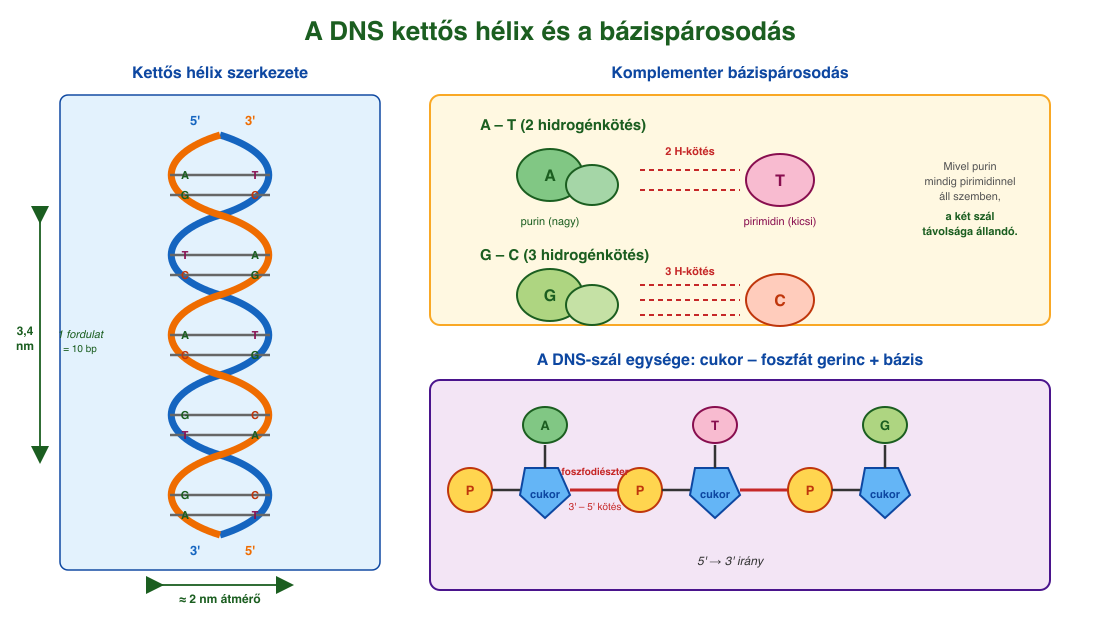
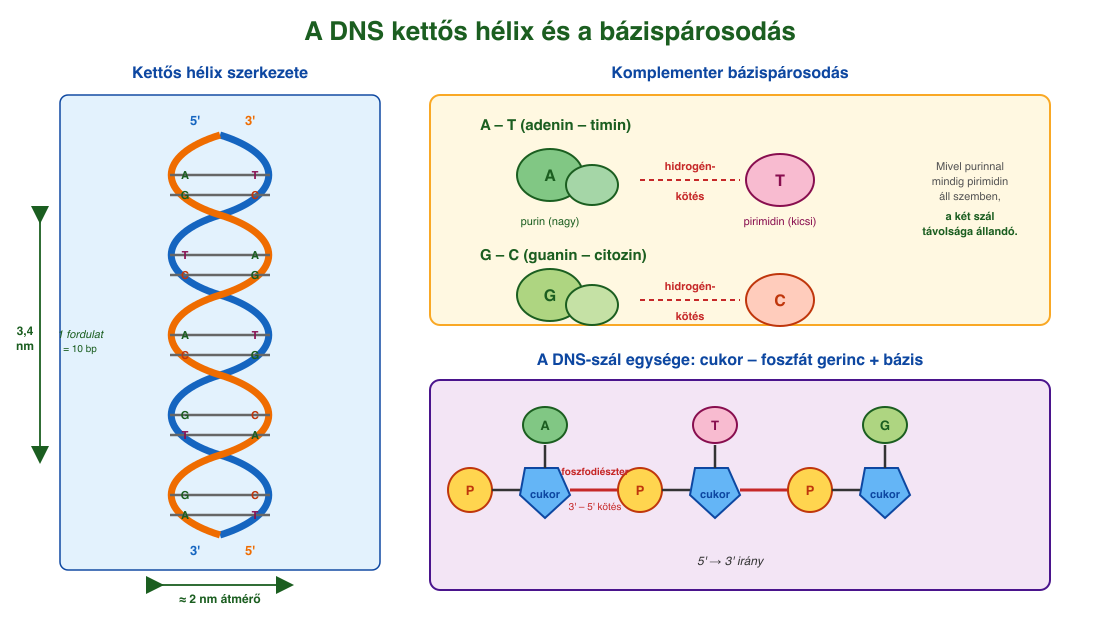
Deployed dc9786d with MkDocs version: 1.6.1

diff --git a/10-enzimek/index.html b/10-enzimek/index.html
@@ -807,25 +807,20 @@
 <h2 id="aktiv-centrum-es-szubsztrat">Aktív centrum és szubsztrát<a class="headerlink" href="#aktiv-centrum-es-szubsztrat" title="Permanent link">&para;</a></h2>
 <p>Az enzim felületén egy zsebszerű hely található – ez az <strong>aktív centrum</strong> (kötőzseb) –, ahova az átalakuló anyag, a <strong>szubsztrát</strong> bekötődik. Az enzimek <strong>reakcióspecifikusak</strong> és <strong>fajlagosak</strong>: minden enzim csak meghatározott szubsztrátot ismer fel, mivel a kötőzseb felépítése specifikus, szerkezete kiegészítő (komplementer) a szubsztrátéval.</p>
 <ul>
-<li><strong>Kulcs-zár modell</strong> (Fischer): a szubsztrát úgy illeszkedik az aktív centrumba, mint a kulcs a zárba. Merev struktúrát feltételez.</li>
-<li><strong>Indukált illeszkedés modellje</strong> (Koshland): ma elfogadottabb. A szubsztrát bekötődése <strong>finoman módosítja</strong> az enzim szerkezetét, ezzel növeli a katalitikus aktivitást.</li>
+<li><strong>Kulcs-zár modell:</strong> a szubsztrát úgy illeszkedik az aktív centrumba, mint a kulcs a zárba. Merev struktúrát feltételez.</li>
+<li><strong>Indukált illeszkedés:</strong> a szubsztrát bekötése <strong>módosítja az enzim szerkezetét</strong>, és ezzel növeli a katalitikus aktivitását is.</li>
 </ul>
 <p>Az <strong>enzim–szubsztrát-komplex</strong> átalakulása után termékek keletkeznek, az enzim pedig változatlanul visszanyeri eredeti formáját.</p>
 <h2 id="az-enzimaktivitas-es-kornyezeti-tenyezok">Az enzimaktivitás és környezeti tényezők<a class="headerlink" href="#az-enzimaktivitas-es-kornyezeti-tenyezok" title="Permanent link">&para;</a></h2>
 <p>Az <strong>enzimaktivitás</strong> megmutatja, hogy adott idő alatt adott mennyiségű enzim mennyi szubsztrátot képes átalakítani. Az aktivitás függ:</p>
 <ul>
 <li><strong>Hőmérséklet:</strong> kis emelkedés gyorsít, de <strong>41 °C felett</strong> a fehérje térszerkezete annyira megváltozik, hogy az enzim képtelen ellátni feladatát – ezért a magas láz életveszélyes. Ez a <strong>denaturáció</strong>, általában visszafordíthatatlan.</li>
-<li><strong>pH (kémhatás):</strong> minden enzimnek van <strong>optimális pH</strong>-ja (pepszin pH ~2, tripszin pH ~8, amiláz pH ~7). A pH-eltolódás megváltoztatja a fehérje töltésviszonyait, és felszakítja a polipeptidláncot stabilizáló kötéseket.</li>
-<li><strong>Szubsztrátkoncentráció és enzimkoncentráció:</strong> növelésük egy ideig növeli a reakciósebességet, de <strong>telítés</strong> (maximum) után már nem.</li>
+<li><strong>pH (kémhatás):</strong> minden enzimnek van <strong>optimális pH</strong>-ja. A pH-eltolódás megváltoztatja a fehérje töltésviszonyait, és felszakítja a polipeptidláncot stabilizáló kötéseket.</li>
+<li><strong>Ionkoncentráció.</strong></li>
 <li><strong>Nehézfém-ionok</strong> (Pb²⁺, Hg²⁺) és mechanikai hatások szintén denaturálhatják az enzimet.</li>
 </ul>
 <h2 id="enzimgatlas">Enzimgátlás<a class="headerlink" href="#enzimgatlas" title="Permanent link">&para;</a></h2>
-<p>Az enzimaktivitást csökkentő anyagok az <strong>inhibitorok</strong> (enzimgátlók). Két fő típusuk:</p>
-<ul>
-<li><strong>Kompetitív (versengő) inhibitor:</strong> a szubsztráthoz hasonló szerkezetű molekula, amely képes az aktív centrumba bekötődni, és <strong>elfoglalja</strong> azt a szubsztrát elől. A gátlás mértékét a szubsztrát- és az inhibitor-koncentráció viszonya határozza meg – <strong>több szubsztráttal feloldható</strong>.</li>
-<li><strong>Nemkompetitív inhibitor:</strong> az enzim egy <strong>másik helyére</strong> kötődik, ezzel megváltoztatja az aktív centrum térszerkezetét, így az enzim inaktívvá válik. <strong>Több szubsztráttal nem oldható fel</strong>.</li>
-<li><strong>Negatív visszacsatolás:</strong> az anyagcsereút <strong>végterméke</strong> gyakran az első enzimet gátolja – ezzel a sejt önszabályozza saját anyagcsere-folyamatait.</li>
-</ul>
+<p>Az enzimaktivitás mértékét csökkentő anyagokat <strong>inhibitoroknak</strong> (enzimgátlóknak) nevezzük. Az inhibitoroknak többféle típusát ismerjük. Egyik csoportjuk a <strong>versengő (kompetitív) inhibitorok</strong>, melyek a szubsztráthoz hasonló szerkezetük révén képesek bekötődni az enzim aktív centrumába, elfoglalva azt. Amennyiben inhibitor jelen van, az enzim képtelen a szubsztrát megkötésére, inaktívvá válik. Az enzimaktivitás mértékét a szubsztrát-, illetve az inhibitor-koncentráció viszonyai határozzák meg, ezek versengenek az aktív centrumban való megkötődés lehetőségéért. Az enzimek csak átmenetileg vesznek részt a reakcióban, maradandó változást nem szenvednek, újra felhasználhatók.</p>
 <h2 id="egyszeru-es-osszetett-enzimek-kofaktorok">Egyszerű és összetett enzimek; kofaktorok<a class="headerlink" href="#egyszeru-es-osszetett-enzimek-kofaktorok" title="Permanent link">&para;</a></h2>
 <ul>
 <li><strong>Egyszerű enzimek</strong> csak aminosavakból épülnek fel.</li>
@@ -834,31 +829,29 @@
 <p>A kofaktorok típusai:</p>
 <ul>
 <li><strong>Prosztetikus csoport:</strong> szorosan, <strong>kovalensen</strong> kötődik az enzimhez, eltávolítása az enzim biológiai funkciójának megszűnésével jár. Többnyire <strong>fémion</strong> (Cu²⁺, Zn²⁺, Fe²⁺), amely az aktív centrum térszerkezetéhez szükséges.</li>
-<li><strong>Koenzim:</strong> lazán, <strong>reverzibilisen</strong> kötődik. Általában <strong>nukleotidszármazék</strong>, sokszor <strong>vitamin</strong> alkotja. Szállítómolekulaként működik: a szubsztrátok között csoportokat (pl. hidrogénatomokat, foszfátot) ad át. Tipikus példák: <strong>NAD⁺</strong>, <strong>NADP⁺</strong> (hidrogénszállítás a sejtanyagcserében), <strong>FAD</strong>, <strong>A koenzim</strong>, <strong>ATP</strong>. A NAD⁺ például a <strong>B₃-vitamin</strong>ból épül fel – ezért okoz a vitaminhiány anyagcserezavart.</li>
+<li><strong>Koenzim:</strong> olyan <strong>nem fehérjetermészetű vegyület</strong> – kofaktor –, amely <strong>lazán, reverzibilisen</strong> kötődik az enzimekhez. Többnyire <strong>nukleotidszármazék</strong>. A koenzimek általában <strong>szállítómolekulák</strong>, a szubsztrátok közötti <strong>csoportátviteli reakciókban</strong> szerepelnek, mint pl. a <strong>NAD⁺</strong>, <strong>NADP⁺</strong>, melyek hidrogénatomok átvitelében játszanak szerepet. A koenzimek felépítésében gyakran vesznek részt <strong>vitaminjellegű csoportok</strong>, ezért a vitaminhiány gátolja a koenzimek felépülését. A NAD⁺ felépítésében például a <strong>B₃-vitamin</strong> vesz részt.</li>
 </ul>
-<p>A NAD⁺/NADH működése jól szemlélteti a koenzim szerepét: az 1. enzim a szubsztrátról hidrogént vesz el és átadja a koenzim oxidált formájának (NAD⁺ → NADH), majd a NADH egy másik enzim szubsztrátjához viszi és átadja a hidrogént (NADH → NAD⁺). <strong>Két különböző enzim, két különböző szubsztrát, egyetlen koenzim közvetít közöttük.</strong></p>
+<p>A <strong>NAD⁺ mint hidrogénszállító koenzim</strong> működése két lépésben zajlik: az 1. enzim a szubsztráttal (elektron-leadó) és a koenzim <strong>oxidált formájával (NAD⁺)</strong> reagál, eközben a koenzim redukálódik (<strong>NADH</strong> keletkezik). Ezután a NADH a 2. enzimhez kötődve <strong>elektronfelvevő szubsztrátot</strong> redukál, így a koenzim <strong>újra NAD⁺-szá oxidálódik</strong>. A két reakcióban két különböző enzim vesz részt.</p>
 <h2 id="enzimek-peldai-az-anyagcsereben">Enzimek példái az anyagcserében<a class="headerlink" href="#enzimek-peldai-az-anyagcsereben" title="Permanent link">&para;</a></h2>
 <ul>
 <li><strong>Na⁺-K⁺ pumpa (ATP-áz):</strong> az állati sejtek legfontosabb ionpumpája. 1 ATP hidrolízisével <strong>3 Na⁺-t pumpál ki</strong> és <strong>2 K⁺-t visz be</strong> a sejtbe; energiaigényes, mert az ionmozgások a koncentrációgradiensekkel ellentétesek.</li>
 <li><strong>Miozin:</strong> izomszövetek ATP-bontó enzime. A felszabaduló energia a fehérjefonalak elcsúszását, vagyis az <strong>izom-összehúzódást</strong> hajtja.</li>
-<li><strong>ATP-szintáz:</strong> a mitokondrium belső membránjában a protongradiens energiáját <strong>ATP előállítására</strong> fordítja (kemiozmózis).</li>
-<li><strong>Adenil-cikláz:</strong> a jelátvitelben az ATP-ből <strong>cAMP</strong>-t (másodlagos hírvivőt) állít elő.</li>
+<li><strong>ATP-szintázok:</strong> olyan enzimek, amelyek a különféle folyamatokban felszabaduló energiát képesek ATP előállítására fordítani. Az ATP a lebontó anyagcsere során keletkezik, pl. a glikolízisben, illetve a terminális oxidációban. A terminális oxidáció egy elektronszállító rendszer működésével valósul meg, mely a mitokondriumok belső membránjában található.</li>
 </ul>
 <h2 id="enzimhianyos-emberi-betegsegek">Enzimhiányos emberi betegségek<a class="headerlink" href="#enzimhianyos-emberi-betegsegek" title="Permanent link">&para;</a></h2>
 <p>Sok betegség hátterében egy adott <strong>enzim hiánya vagy elégtelen működése</strong> áll:</p>
 <ul>
-<li><strong>Tejcukor-érzékenység (laktózintolerancia):</strong> a <strong>laktáz</strong> enzim hiányában a laktóz a vékonybélben nem bomlik glükózra és galaktózra, így nem szívódik fel. A vastagbélbe kerülve a baktériumok erjedési termékei (H₂, CO₂, szerves savak) puffadást, hasmenést okoznak. Kezelése: laktózmentes étrend.</li>
+<li><strong>Tejcukor-érzékenység (laktózintolerancia):</strong> a <strong>laktáz</strong> enzim hiányában a laktóz a vékonybélben nem tud monoszacharidokká bomlani, így nem szívódik fel, és a vastagbélbe kerülve különféle problémákat okoz. A vastagbélbe kerülő laktóz erősen növeli a béltartalom ozmotikus koncentrációját, szívóerejét, miáltal csökkenti a vízfelszívódás mértékét, továbbá a vastagbélben zajló bakteriális erjedés következtében különféle szerves savak és gázok (H₂, CO₂) keletkeznek, melyek erőteljesen fokozzák a bélperisztaltikát. Mindezek eredményeképpen a széklet jelentősen hígul, ami a hasmenés elsődleges oka. A tünetek mértékét a laktózbevitel csökkentésével (pl. laktózmentes tejtermékek fogyasztásával) lehet mérsékelni.</li>
 <li><strong>Fenilketonúria (PKU):</strong> autoszómás, recesszíven öröklődő betegség. A <strong>fenilalanin-hidroxiláz</strong> enzim hiánya miatt a fenilalanin nem alakul tirozinná, hanem <strong>mérgező anyagcseretermékek</strong> halmozódnak fel a vérben → idegrendszeri károsodás, értelmi fogyatékosság. Kezelése a fenilalaninszegény diéta.</li>
 </ul>
-<p>Az enzimek tehát az élet alapvető katalizátorai: minden sejtben több ezer enzim összehangolt működése biztosítja, hogy az anyagcsere a testhőmérsékleten, szabályozottan és gyorsan menjen végbe.</p>
 <hr />
 <h2 id="abrak">Ábrák<a class="headerlink" href="#abrak" title="Permanent link">&para;</a></h2>
 <p><img alt="Enzim hatása a reakció aktiválási energiájára" src="../abrak/10a-aktivacios-energia.png" /></p>
 <p><em>Egy reakció energiadiagramja enzim nélkül (piros görbe) és enzimmel (kék görbe). Az enzim alacsonyabb aktiválási energiájú új reakcióutat nyit; a reagensek és a végtermék energiája, valamint az összes leadott energia ugyanaz – csak gyorsabban éri el a rendszer az egyensúlyt.</em></p>
 <p><img alt="NAD⁺/NADH koenzim hidrogénszállítása" src="../abrak/10b-nad-koenzim.png" /></p>
 <p><em>A NAD⁺ mint hidrogénszállító koenzim. 1. reakció: az 1. enzim a szubsztrátról hidrogént vesz el, az oxidált koenzim (NAD⁺) redukálódik NADH-vá. 2. reakció: a NADH a 2. enzimhez kötődve átadja a hidrogént egy másik szubsztrátnak, és visszaalakul NAD⁺-szá. Két különböző enzim, egy közös koenzim közvetít közöttük.</em></p>
-<p><img alt="Kompetitív és nemkompetitív enzimgátlás" src="../abrak/10c-inhibitorok.png" /></p>
-<p><em>Bal oldalon a normál enzim-szubsztrát kapcsolódás. Középen a kompetitív gátlás: az inhibitor a szubsztráthoz hasonló szerkezetű, az aktív centrumért versenyez vele – több szubsztráttal feloldható. Jobb oldalon a nemkompetitív gátlás: az inhibitor az enzim más helyére kötődik, megváltoztatja a térszerkezetet, az aktív centrum elveszti a szubsztráthoz való illeszkedést – több szubsztráttal sem oldható fel.</em></p>
+<p><img alt="A versengő (kompetitív) enzimgátlás" src="../abrak/10c-inhibitorok.png" /></p>
+<p><em>Bal oldalon a normál enzim-szubsztrát kapcsolódás: a szubsztrát illeszkedik az aktív centrumba, és termékek keletkeznek. Jobb oldalon a versengő (kompetitív) gátlás: az inhibitor a szubsztráthoz hasonló szerkezetű, ezért képes bekötődni az aktív centrumba, és elfoglalja azt; a szubsztrát kiszorul, az enzim inaktívvá válik. Az enzimaktivitást a szubsztrát- és az inhibitor-koncentráció viszonya határozza meg.</em></p>
 <hr />
 <p><em>Az anyag az 1. tankönyv 34, 35, 36, 37. oldalain található.</em></p>
 

diff --git a/11-nukleotidok/index.html b/11-nukleotidok/index.html
@@ -838,7 +838,7 @@
 <p>A bázis és a cukor <strong>glikozidos kötéssel</strong> (kondenzációval, víz kilépése közben) kapcsolódik – ez a <strong>nukleozid</strong>. A nukleozid cukoregységének 5' szénatomjához egy <strong>foszforsav-maradék</strong> kondenzál <strong>foszfoészter-kötéssel</strong> – így keletkezik a <strong>nukleotid</strong> (nukleozid-monofoszfát).</p>
 <p>A bázis gyűrűatomjait számokkal (1, 2, 3...), a cukoregység szénatomjait pedig vesszős számokkal (1', 2', 3', 4', 5') jelöljük, hogy elkülönítsük őket. A DNS-ben a 2' szénatomon <strong>H</strong> áll, az RNS-ben <strong>OH</strong>.</p>
 <h2 id="egyszeru-nukleotidok-koenzimek">Egyszerű nukleotidok – koenzimek<a class="headerlink" href="#egyszeru-nukleotidok-koenzimek" title="Permanent link">&para;</a></h2>
-<p>Egy vagy két nukleotidegységből és egyéb csoportokból felépülő molekulák. Általában <strong>koenzimek</strong>: enzimekhez <strong>lazán, reverzibilisen</strong> kötődnek, csoportokat (foszfátot, hidrogént, acetilt) szállítanak. Fő képviselők: <strong>ATP, NAD⁺, NADP⁺, FAD, koenzim-A</strong>.</p>
+<p>Egy vagy két nukleotidegységből (foszforsav, 5 szénatomos cukor, nitrogéntartalmú bázis) és egyéb csoportokból felépülő molekulák a <strong>nukleotidok</strong>. Általában <strong>koenzimek</strong>, az enzimek működéséhez szükséges <strong>nem kovalensen kapcsolódó molekulák</strong>. Képviselőik: <strong>ATP, NAD⁺, NADP⁺, koenzim-A</strong>.</p>
 <h3 id="atp-adenozin-trifoszfat">ATP (adenozin-trifoszfát)<a class="headerlink" href="#atp-adenozin-trifoszfat" title="Permanent link">&para;</a></h3>
 <p>Az <strong>élővilág univerzális energiavalutája</strong>. Felépítése: <strong>adenin</strong> + <strong>ribóz</strong> + <strong>három, sorba kapcsolódó foszfátcsoport</strong>. Az egymást követő foszfátok között <strong>foszfoanhidrid-kötés</strong>, ún. <strong>makroerg (nagy energiájú) kötés</strong> található. Az ATP-t fotoszintézis, a biológiai oxidáció és az erjedés állítja elő.</p>
 <p>Az ATP <strong>közvetlen energiaforrás</strong> az endoterm reakciókhoz:</p>
@@ -852,30 +852,27 @@
 <p><strong>Funkciójuk: hidrogén- és elektronátvivő koenzimek.</strong></p>
 <ul>
 <li>A szerves vegyületek oxidációja során leadott <strong>2 elektron + 1 H⁺</strong> felvételére (redukcióra) alkalmasak: <strong>NAD⁺ + 2H⁺ + 2e⁻ ⇌ NADH + H⁺</strong>.</li>
-<li><strong>NAD⁺ → NADH</strong>: oxidálószer a <strong>lebontó</strong> folyamatokhoz (pl. biológiai oxidáció).</li>
-<li><strong>NADP⁺ → NADPH</strong>: redukálószer a <strong>felépítő</strong> folyamatokhoz (pl. zsírsavszintézis, koleszterinszintézis, fotoszintézis sötét szakasza).</li>
-<li>A sejtben a NAD⁺/NADH arány magas (sok oxidált forma) – mert oxidáláshoz kell. A NADP⁺/NADPH arány alacsony (sok redukált forma) – mert redukáláshoz kell.</li>
+<li>A NAD⁺ <strong>főleg oxidálószerként</strong> szükséges a sejtnek, ezért sok NAD⁺ és kevés NADH kell hogy legyen a sejtben.</li>
+<li>A NADP⁺ ezzel szemben <strong>redukálószerként</strong> szükséges az enzimeknek, ezért sok NADPH és kevés NADP⁺ kell hogy legyen a sejtben. Példa a NADPH felhasználására állati szervezetben: a koleszterin képződése.</li>
 </ul>
 <h3 id="koenzim-a-koa">Koenzim-A (koA)<a class="headerlink" href="#koenzim-a-koa" title="Permanent link">&para;</a></h3>
-<p>Egyszerű nukleotid: <strong>adenintartalmú nukleotid</strong> + szerves molekularész (pantoténsav-származék, B₅-vitamin). A molekula végén egy <strong>szulfhidrilcsoport (–SH)</strong> található, ehhez kötődik az <strong>acetilcsoport (CH₃CO–)</strong>. A kötés <strong>nagy energiájú</strong>, felbomlása energetikailag kedvező. A koenzim-A a <strong>cukrok lebontásához</strong> és a <strong>zsírsavak fel- és lebontásához</strong> szükséges (acetil-csoport „építőkövek” szállítása).</p>
+<p>A koenzim-A a biokémiai folyamatokhoz két szénatomos „építőköveket”, <strong>acetilcsoportokat</strong> szállít. A molekula egy adenintartalmú nukleotidból és ennek terminális foszfátcsoportjához kapcsolódó szerves molekularészből (pantoténsav-származék) felépülő <strong>egyszerű nukleotid</strong>. A molekula végén található <strong>szulfhidrilcsoporthoz (–SH)</strong> kondenzációval kapcsolódik az acetilcsoport. A koenzim-A a <strong>cukrok lebontásához</strong> és a <strong>zsírsavak felépítéséhez és lebontásához</strong> szükséges. Az acetilcsoport és a kénatom közötti kötés <strong>nagy energiájú</strong>, felbomlása energetikailag kedvező.</p>
 <h2 id="nukleinsavak">Nukleinsavak<a class="headerlink" href="#nukleinsavak" title="Permanent link">&para;</a></h2>
-<p>A nukleinsavak nukleotidegységek <strong>foszfátcsoportjaikon keresztül</strong> összekapcsolódó polimerei. Egy nukleotid foszfátcsoportja egy <strong>másik ribóz vagy dezoxiribóz 3' szénatomjához</strong> kapcsolódik <strong>foszfodiészter-kötéssel</strong>, így hosszú lánc jön létre.</p>
+<p>A <strong>nukleinsavak</strong>ban a nukleotidegységek (nukleozid-monofoszfátok) <strong>foszfátcsoportjaikon keresztül</strong> kapcsolódnak egymáshoz. Egy nukleotid foszfátcsoportja egy <strong>másik ribóz vagy dezoxiribóz 3' szénatomjához</strong> kapcsolódik <strong>foszfodiészter-kötéssel</strong>.</p>
 <h3 id="dns-dezoxiribonukleinsav">DNS (dezoxiribonukleinsav)<a class="headerlink" href="#dns-dezoxiribonukleinsav" title="Permanent link">&para;</a></h3>
 <ul>
 <li>Cukoregység: <strong>dezoxiribóz</strong>.</li>
 <li>Bázisok: <strong>A, T, G, C</strong> (uracil nincs).</li>
 <li>A láncgerincet a cukor- és foszfátegységek adják (egyforma), a változó részt a hozzájuk kapcsolódó négy különböző bázis. A <strong>bázisok sorrendje hordozza a genetikai információt</strong>.</li>
-<li><strong>Kettős hélix</strong>: két, egymással ellentétes lefutású szál csavarodik egymás köré (jobbmenetes spirál). A két szál <strong>komplementere egymásnak</strong>: <strong>A–T</strong> és <strong>G–C</strong> bázispárok között <strong>hidrogénkötések</strong> alakulnak ki. Mivel egy purinnal mindig pirimidin áll szemben, a két szál távolsága állandó.</li>
-<li>Méretek: átmérő ≈ <strong>2 nm</strong>, egy fordulat ≈ 3,4 nm és 10 bázispárt tartalmaz (egy bázispár ≈ 0,34 nm).</li>
-<li><strong>5'- és 3'-vég</strong>: a szabad foszfátot hordozó vég az 5'-vég, a szabad OH-csoportot tartalmazó az 3'-vég. A két szál egymással <strong>antiparalel</strong>.</li>
+<li><strong>Kettős hélix:</strong> a DNS-szálat egy vele ellentétes lefutású szál kíséri, ezek egymás körül felcsavarodva kettős hélixet alkotnak. A két szál egymás <strong>komplementere (kiegészítője)</strong>: csak bizonyos bázispárok között tudnak hidrogénkötések kialakulni. Az <strong>adeninnel szemben timin</strong>, a <strong>guaninnal szemben citozin</strong> található a hélixben. Mivel a purin bázissal szemben mindig pirimidin bázis helyezkedik el, a két szál távolsága állandó.</li>
+<li>A két szálat a <strong>bázisok között kialakuló hidrogénkötések</strong> kapcsolják egymáshoz. A hélix jobbmenetes, <strong>2 nm átmérőjű</strong>. Egy fordulat <strong>3,4 nm hosszúságú és 10 bázispár</strong> alkotja (egy bázispár 0,34 nm hosszúságú).</li>
+<li><strong>5'- és 3'-vég:</strong> egy szál esetében a 3' szénatomhoz tartozó szabad hidroxilcsoporttal rendelkező véget <strong>3'-végnek</strong>, a szabad foszfátcsoporttal rendelkező véget pedig <strong>5'-végnek</strong> nevezzük.</li>
 </ul>
 <h3 id="rns-ribonukleinsav">RNS (ribonukleinsav)<a class="headerlink" href="#rns-ribonukleinsav" title="Permanent link">&para;</a></h3>
 <ul>
 <li>Cukoregység: <strong>ribóz</strong> (a 2' szénen OH).</li>
 <li>Bázisok: <strong>A, U, G, C</strong> (timin helyett <strong>uracil</strong>).</li>
-<li><strong>Egyszálú</strong> (a fehérjeszintézis részleteit a 69. tétel tárgyalja).</li>
 </ul>
-<p>A DNS őrzi a genetikai információt, az RNS-ek a fehérjeszintézis során közvetítik és kivitelezik ezt az információt. Az egyszerű nukleotidok (ATP, NAD⁺, koA) ezzel szemben <strong>energetikai és csoportszállító feladatokat</strong> látnak el – a nukleotidok tehát egyaránt <strong>információhordozók és anyagcsere-közvetítők</strong>: kétféle, de szervesen összefüggő szerep ugyanazokból az építőkövekből.</p>
 <hr />
 <h2 id="abrak">Ábrák<a class="headerlink" href="#abrak" title="Permanent link">&para;</a></h2>
 <p><img alt="A nukleotid felépítése" src="../abrak/11a-nukleotid-felepitese.png" /></p>
@@ -883,7 +880,7 @@
 <p><img alt="Az ATP szerkezete és hidrolízise" src="../abrak/11b-atp.png" /></p>
 <p><em>Az ATP felépítése: adenin (zöld) + ribóz (kék) + három foszfátcsoport (P-P-P, sárga). A foszfátok között foszfoanhidrid-kötések vannak; a két utolsó kötés makroerg (nagy energiájú), villámmal jelölve. Hidrolíziskor (ATP + H₂O) az utolsó foszfát leszakad, ADP és szabad foszfát keletkezik, és kb. 31 kJ/mol energia szabadul fel, ami az endoterm sejtfolyamatokat hajtja.</em></p>
 <p><img alt="A DNS kettős hélix és a bázispárosodás" src="../abrak/11c-dns-helix.png" /></p>
-<p><em>A DNS kettős spirál szerkezete. A két szál antiparalel: az egyik 5' → 3', a másik 3' → 5' irányú; a láncgerincet a cukor (kék) – foszfát (sárga) egységek adják. A két szál között hidrogénkötések kapcsolják össze a komplementer bázispárokat: A–T két, G–C három hidrogénkötéssel. Mivel purin (A, G) mindig pirimidinnel (T, C) áll szemben, a szálak távolsága állandó, ≈ 2 nm. Egy teljes fordulat 3,4 nm hosszú és 10 bázispárt tartalmaz.</em></p>
+<p><em>A DNS kettős spirál szerkezete. A két szál egymással ellentétes lefutású: az egyik 5' → 3', a másik 3' → 5' irányú; a láncgerincet a cukor (kék) – foszfát (sárga) egységek adják. A két szál között hidrogénkötések kapcsolják össze a komplementer bázispárokat: adeninnel szemben mindig timin, guaninnal szemben mindig citozin található. Mivel purin (A, G) mindig pirimidinnel (T, C) áll szemben, a szálak távolsága állandó, ≈ 2 nm. Egy teljes fordulat 3,4 nm hosszú és 10 bázispárt tartalmaz.</em></p>
 <hr />
 <p><em>Az anyag az 1. tankönyv 66, 67, 68, 69. oldalain található.</em></p>
 

diff --git a/12-virusok/index.html b/12-virusok/index.html
@@ -837,9 +837,9 @@
 <p>Az embert és állatokat fertőző vírusok szaporodási ciklusa részben hasonlít ehhez, részben eltér. Pl. a <strong>herpeszvírus</strong> DNS-e az emberi sejt DNS-ébe beépülve nyugalmi állapotban maradhat, és fizikai (UV-fény) vagy érzelmi stressz hatására aktiválódik újra.</p>
 <h2 id="a-retrovirusok-es-az-aids">A retrovírusok és az AIDS<a class="headerlink" href="#a-retrovirusok-es-az-aids" title="Permanent link">&para;</a></h2>
 <p>A <strong>HIV</strong> (Human Immunodeficiency Virus) <strong>retrovírus</strong>: RNS-genomot tartalmaz, <strong>peplonja van</strong>, és a szaporodása során <strong>megfordul a genetikai információ áramlásának szokásos iránya</strong> (DNS → RNS helyett <strong>RNS → DNS</strong>). A vírus magával hozza a <strong>reverz transzkriptáz</strong> enzimet, amely a vírus RNS-éről DNS-t ír át, majd ez a DNS beépül a gazdasejt DNS-ébe. Innen a sejt saját RNS-polimeráza írja át, vírusfehérjék készülnek, és új virionok bimbóznak ki a sejthártyával együtt.</p>
-<p>A HIV az <strong>immunrendszer sejtjeit (T-segítő sejteket) támadja meg</strong>, ezzel <strong>szerzett immunhiányos</strong> állapotot (AIDS-et) okoz, amelyben a szervezet más kórokozókkal szemben is védtelenné válik.</p>
+<p>A HIV az <strong>immunrendszer sejtjeit támadja meg</strong>, ezzel <strong>szerzett immunhiányos</strong> állapotot (AIDS-et) okoz, amelyben a szervezet más kórokozókkal szemben is védtelenné válik.</p>
 <h2 id="a-virus-okozta-sejtkarosodas-es-vedekezes">A vírus okozta sejtkárosodás és védekezés<a class="headerlink" href="#a-virus-okozta-sejtkarosodas-es-vedekezes" title="Permanent link">&para;</a></h2>
-<p>A közvetlen károsodás okai: a sejt energiájának felhasználása, a sejt saját makromolekuláris szintézisének leállása, a vírus-genom beépüléséből származó mutációk, a gyulladásos válasz (citokinvihar). Egyes vírusok (EPV, HPV) <strong>daganatkeltőek</strong> lehetnek (onkogén vírusok).</p>
+<p>A közvetlen károsodás okai: a sejt energiájának felhasználása, a sejt saját makromolekuláris szintézisének leállása, a vírus-genom beépüléséből származó mutációk, a gyulladásos válasz (citokinvihar). Egyes vírusok (EBV, HPV) <strong>daganatkeltőek</strong> lehetnek (onkogén vírusok).</p>
 <p>A sejt egyik természetes védekezése az <strong>RNS-interferencia</strong>: ha kétszálú RNS jelenik meg (ami normális esetben nincs a sejtben), egy enzim rövid darabokra bontja, és ezekkel azonosítja és lebontja a hasonló szekvenciájú vírus-RNS-eket. Ez nemcsak vírusvédekezés, hanem a saját génkifejeződés szabályozója is – a gyógyítás eszközeként is használják (génceddesítés, miRNS, siRNS).</p>
 <h2 id="a-virusok-evolucioja-es-valtozatossaga">A vírusok evolúciója és változatossága<a class="headerlink" href="#a-virusok-evolucioja-es-valtozatossaga" title="Permanent link">&para;</a></h2>
 <p>A vírusok evolúciója gyors. Két fő változatossági forrás:</p>
